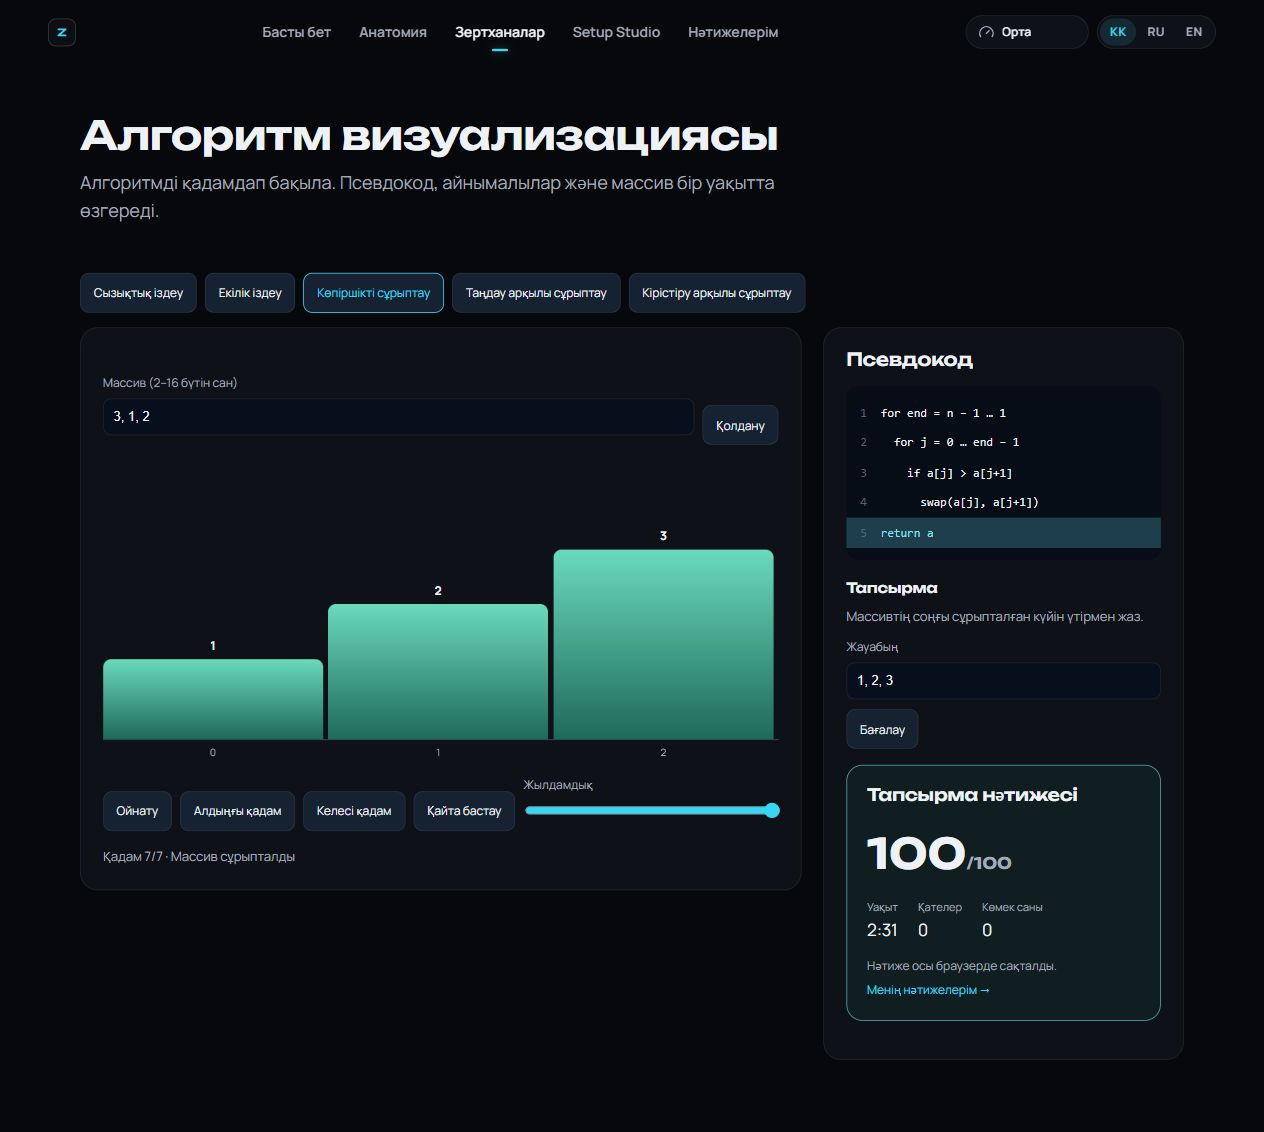
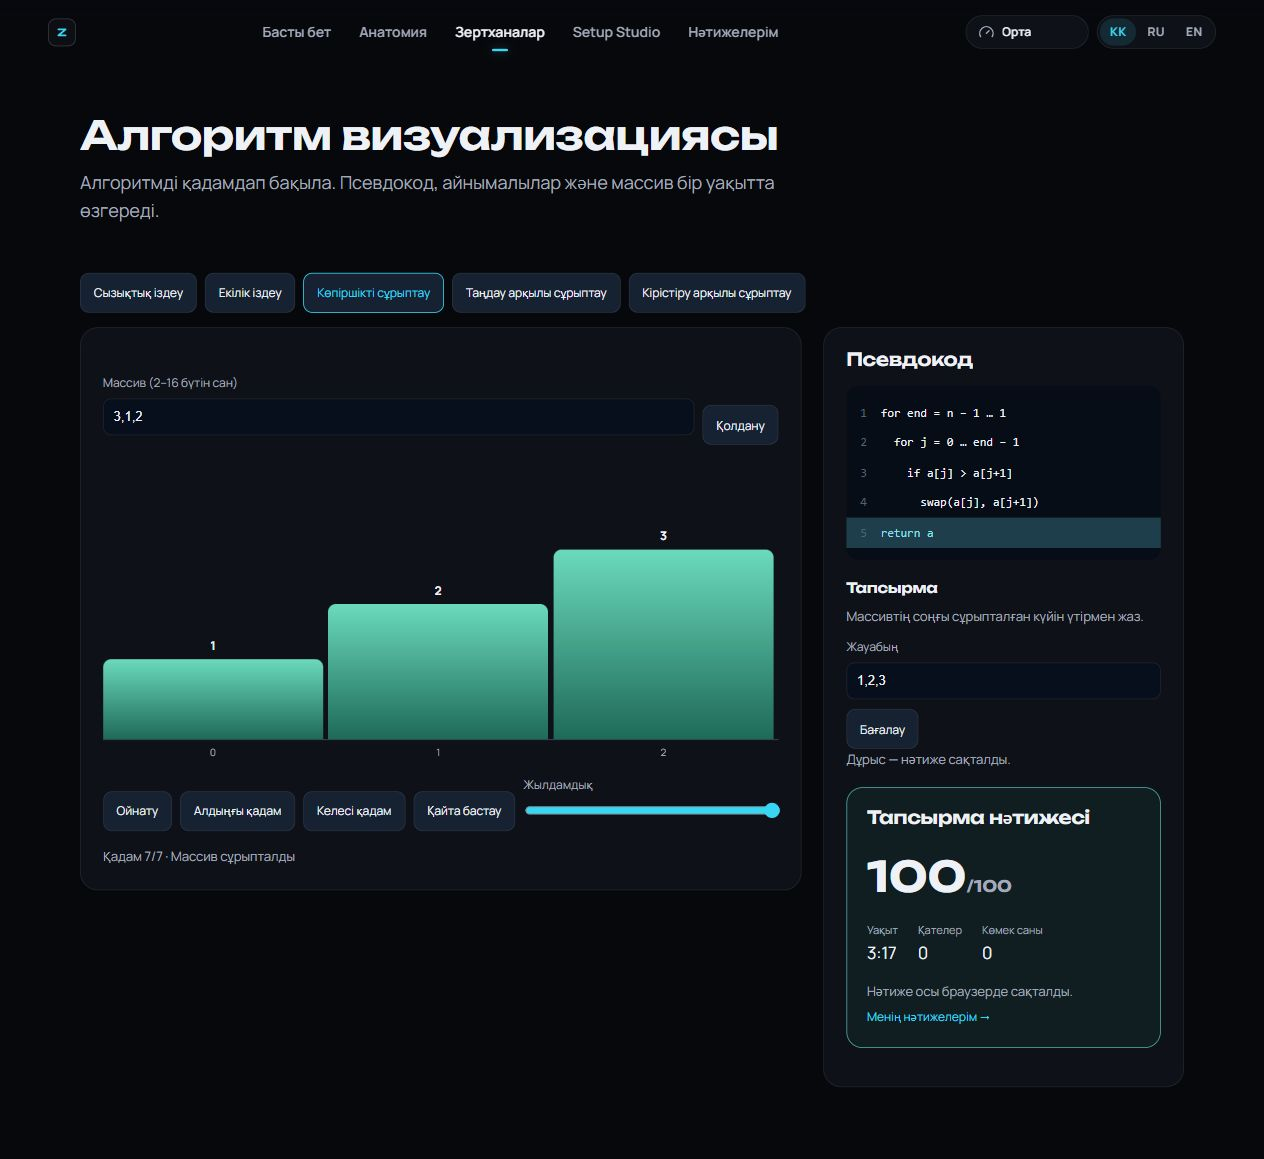
Preserve lifetime best scores and migrate progress to v2

diff --git a/src/store/progressStore.ts b/src/store/progressStore.ts
@@ -1,6 +1,6 @@
 import { create } from 'zustand';
 import { createJSONStorage, persist } from 'zustand/middleware';
-import { safeStorage } from '@/lib/storage';
+import { safeStorage, STORAGE_KEYS, STORAGE_VERSIONS } from '@/lib/storage';
 import { isAssessment, type Assessment } from '@/lib/labs/assessment';
 
 interface ProgressState {
@@ -10,20 +10,23 @@ interface ProgressState {
   record: (assessment: Assessment) => void;
 }
 const memory = new Map<string,string>();
+function restoreResults(raw: unknown) {
+  const saved = raw as { attempts?: unknown; best?: unknown } | null;
+  const attempts = Array.isArray(saved?.attempts) ? saved.attempts.filter(isAssessment) : [];
+  const best = Array.isArray(saved?.best) ? saved.best.filter(isAssessment) : [];
+  return { attempts: attempts.slice(-200), best: bestResults([...best,...attempts]) };
+}
 export const useProgressStore = create<ProgressState>()(persist((set) => ({
   attempts: [],
   best: [],
   record: (a) => { if (isAssessment(a)) set(s => ({ attempts: [...s.attempts,a].slice(-200), best: bestResults([...s.best,a]) })); },
-}), { name: 'vil3d:progress', version: 1, storage: createJSONStorage(() => safeStorage() ?? {
+}), { name: STORAGE_KEYS.progress, version: STORAGE_VERSIONS.progress, storage: createJSONStorage(() => safeStorage() ?? {
   getItem: k => memory.get(k) ?? null, setItem: (k,v) => void memory.set(k,v), removeItem: k => void memory.delete(k),
 }),
   partialize: s => ({ attempts: s.attempts, best: s.best }),
+  migrate: restoreResults,
   merge: (raw,current) => {
-    const saved = raw as { attempts?: unknown; best?: unknown } | null;
-    const attempts = Array.isArray(saved?.attempts) ? saved.attempts.filter(isAssessment) : [];
-    const best = Array.isArray(saved?.best) ? saved.best.filter(isAssessment) : [];
-    // Additive v1 schema: old saves rebuild their best scores from history.
-    return { ...current, attempts: attempts.slice(-200), best: bestResults([...best,...attempts]) };
+    return { ...current, ...restoreResults(raw) };
   },
 }));
 

diff --git a/src/pages/Labs/AssignmentsPage.tsx b/src/pages/Labs/AssignmentsPage.tsx
@@ -4,7 +4,7 @@ import { useT } from '@/hooks/useT';
 import { useEducationText,type EducationKey } from '@/hooks/useEducationText';
 import { useLabText } from '@/hooks/useLabText';
 import { EXERCISES } from '@/data/labs/exercises';
-import { useProgressStore,bestResults } from '@/store/progressStore';
+import { useProgressStore } from '@/store/progressStore';
 import type { TranslationKey } from '@/lib/i18n';
 import styles from './Learning.module.css';
-export default function AssignmentsPage(){const t=useT(),l=useEducationText(),lt=useLabText(),attempts=useProgressStore(s=>s.attempts);const best=bestResults(attempts);return <PageLayout title={t('labs.modules.assignments.title')} subtitle={l('assignmentsIntro')}><div className={styles.list}>{EXERCISES.map(e=>{const score=best.find(a=>a.exercise===e.id)?.score;const name=e.module==='assembly'?lt('assemblyTitle'):e.module==='hardware'?t(`anatomy.items.${e.task}.name` as TranslationKey):l(e.task==='router'?'routerTask':e.task as EducationKey);return <Link key={e.id} to={e.path}><span>{t(`labs.modules.${e.module}.title` as TranslationKey)} · {name}</span><strong>{score===undefined?'→':`${score}/100`}</strong></Link>;})}</div></PageLayout>;}
+export default function AssignmentsPage(){const t=useT(),l=useEducationText(),lt=useLabText(),best=useProgressStore(s=>s.best);return <PageLayout title={t('labs.modules.assignments.title')} subtitle={l('assignmentsIntro')}><div className={styles.list}>{EXERCISES.map(e=>{const score=best.find(a=>a.exercise===e.id)?.score;const name=e.module==='assembly'?lt('assemblyTitle'):e.module==='hardware'?t(`anatomy.items.${e.task}.name` as TranslationKey):l(e.task==='router'?'routerTask':e.task as EducationKey);return <Link key={e.id} to={e.path}><span>{t(`labs.modules.${e.module}.title` as TranslationKey)} · {name}</span><strong>{score===undefined?'→':`${score}/100`}</strong></Link>;})}</div></PageLayout>;}

diff --git a/src/lib/storage.ts b/src/lib/storage.ts
@@ -20,7 +20,7 @@ export const STORAGE_KEYS = {
 export const STORAGE_VERSIONS = {
   settings: 1,
   setup: 1,
-  progress: 1,
+  progress: 2,
 } as const;
 
 /** localStorage can throw (private mode, blocked storage, quota). */

diff --git a/docs/SESSION_2026-10-04_LEARNING.md b/docs/SESSION_2026-10-04_LEARNING.md
@@ -8,17 +8,17 @@
 - Logic: 6 gate, максимум 10 gate, жылжыту/порт/сым, A/B switch, сигнал түсі/LED, 4 truth-table жолы. Бағалау графтың мінез-құлқын тексереді; балама NAND+NOT схемасы да өтеді. Цикл/қосылмаған кіріс белгісіз `?` береді.
 - Experiments: CPU температурасы, RAM, сақтау жылдамдығы, latency, binary bits, RGB, resolution және refresh rate. Параметр/формула/визуал, decimal comma, дискретті мәндердің дәл бағалауы.
 
-`EXERCISES`: 1 PC assembly + 5 algorithm + 4 network + 4 logic + 8 experiment + 18 anatomy = **40**. Assignment сілтемелері нақты тапсырмаға/құрылғыға апарады. Ең жақсы ұпай, соңғы әрекеттер, 3 achievement және орындалу пайызы `vil3d:progress` v1 арқылы сақталады.
+`EXERCISES`: 1 PC assembly + 5 algorithm + 4 network + 4 logic + 8 experiment + 18 anatomy = **40**. Assignment сілтемелері нақты тапсырмаға/құрылғыға апарады. Ең жақсы ұпай, соңғы әрекеттер, 3 achievement және орындалу пайызы `vil3d:progress` v2 арқылы сақталады. Lifetime best соңғы 200 әрекеттен бөлек; v1 деректері өшірілмей көшіріледі.
 
 ## Архитектура/оптимизация
 Таза логика `src/lib/labs/`, реестр `src/data/labs/exercises.ts`, kk/ru/en мәтіндер `useEducationText.ts`, UI `pages/Labs/`. Global LoaderOverlay lazy. Rolldown `codeSplitting.includeDependenciesRecursively=false`: React/Zustand WebGL тобына кірмейді; production entry HTML Three/r3f preload жасамайды. 3D беттері өз модульдерін сұрағанда жүктейді.
 
 ## Тексерулер
-- `npm test`: 22/22 (AI 9, assistant 4, assembly 3, PC Lab 2, education engines 4). Соңғы сандық бағалау түзетуінен кейін `test:learning` 4/4 қайта өтті.
+- `npm test`: 23/23 (AI 9, assistant 4, assembly 3, PC Lab 2, education engines 4, progress 1). Progress тесті: 205 қайталаудан кейін де алдыңғы 100 ұпай сақталады, rehydrate/v1 migration/жарамсыз жазба тексерілді.
 - Production build (TypeScript + Vite) және lint өтті. Chunk config-тің соңғы нұсқасы deprecation warning бермейді.
 - Chromium desktop: LAN-ның 3 кабелі/PING/100, екі портты басу; duplicate IP қатесі; AND truth table/100; bubble forward/back/autoplay/100; refresh 60→300 Гц, 3.33 ms/100; assignment 40 жолы және monitor deep link/quiz/100.
 - Progress: 6/40 = 15%, 600 best points; нашар қайталанған әрекет best score-ды түсірмейді; reload кейін сақталады.
-- Mobile 375×812: тәжірибе және PC assembly UI-ында horizontal page overflow жоқ; оқу графтарының ішкі панелі көлденең жылжиды. Нақты touch құрылғы тексерілмеген.
+- Mobile 375×812: тәжірибе, логика және PC assembly UI-ында horizontal page overflow жоқ; оқу графтарының ішкі панелі көлденең жылжиды. Нақты touch құрылғы тексерілмеген.
 - Жаңа build-тегі `/studio/summary`: кино табиғи аяқталады; AI-мен жақсарту диалогы каталог ұсынысын/айырмасын көрсетеді. Ұсынысты қолданбай, бастапқы ASUS 300 Гц + Logitech жинағы сақталды.
 
 Скриншоттар `docs/screenshots/{network-lab,logic-lab,algorithm-lab,experiment-lab,progress,assembly-final,assistant-improve}.jpg`.

diff --git a/README.md b/README.md
@@ -29,7 +29,8 @@ Windows: `start.bat` (қажет болса `npm install` жасайды да, d
 | `npm run ai:server` | LLM backend (кілт `.env`-те, міндетті емес) |
 | `npm run test:pc-lab` | Орнату реттілігі, қайталанған бөлшектер, ұпай және сақтау валидациясы |
 | `npm run test:learning` | Алгоритмдер, схема графы, LAN/IP және тәжірибелердің бағалауы |
-| `npm test` | Барлық 22 автоматты тест |
+| `npm run test:progress` | Ұпайды history limit-тен қорғау, persist және v1→v2 migration |
+| `npm test` | Барлық 23 автоматты тест |
 | `npm run assets:optimize` | Шикі лицензияланған GLB → Meshopt + WebP 1K |
 | `npm run assets:validate` | 16 модельдің геометриясы, декодталуы, текстуралары |
 
@@ -73,6 +74,7 @@ Windows: `start.bat` (қажет болса `npm install` жасайды да, d
 Таза есептеу/тексеру логикасын `src/lib/labs/` ішінде қосып, тиісті модуль UI-ына жалғаңыз. Тапсырманы `src/data/labs/exercises.ts` тізіміне тұрақты ID және route арқылы тіркеңіз. `assessment.ts` бағалауы мен `progressStore.record` арқылы нәтиже сақталсын; тізім мен прогресс осы реестрді қолданады. Негізгі оқу логикасын `scripts/learning.test.mjs` арқылы тексеріңіз.
 
 Желі — LAN оқу моделі; нақты ICMP/DNS/Интернет маршрутизациясын орындамайды. Тәжірибе мәндері — түсіндірілген оқу формулалары, нақты компьютер өлшемдері емес. Legacy прогресс импорты, әр SKU-ға бөлек GLB, KTX2/LOD және Firefox/Safari/нақты touch QA әлі ашық.
+Прогресс v2: соңғы 200 әрекет пен өмірлік ең жақсы ұпайлар бөлек сақталады; v1 нәтижелері дерек өшірілмей автоматты көшіріледі.
 
 ## Графика сапасы
 Low / Medium / High / Ultra + Авто (`src/lib/quality`). Авто режим GPU мен құрылғыны анықтап, FPS төмендесе сапаны өзі түсіреді.

diff --git a/PROJECT_STATE.md b/PROJECT_STATE.md
@@ -21,7 +21,7 @@
 - `/assignments`: 40 оқу тапсырмасы; `/progress`: best scores, әрекеттер, 3 жетістік, реестр бойынша орындалу пайызы. Explorer `?device=...` арқылы нақты құрылғыны ашады.
 - Логика: `lib/labs/{algorithms,network,logic,experiments}.ts`; реестр `data/labs/exercises.ts`; kk/ru/en мәтін `hooks/useEducationText.ts`; UI `pages/Labs/*Page.tsx`, `Learning.module.css`.
 - LoaderOverlay lazy; `vite.config.ts` codeSplitting ортақ React/Zustand-ты WebGL chunk-ына жұтып қоймайды. Production index.html three/r3f preload жасамайды; 3D routes өздері жүктейді.
-- Тексерулер: 22 автоматты тест, production build, lint. Chromium: LAN 100/PING, duplicate IP, AND 100/ақиқат кестесі, bubble autoplay/step 100, 300 Гц тәжірибесі 100, 40 сілтеме/монитор quiz, progress 6/40=15% және reload persist. Скриншоттар мен шектеулер: `docs/SESSION_2026-10-04_LEARNING.md`.
+- Тексерулер: 23 автоматты тест, production build, lint. Chromium: LAN 100/PING, duplicate IP, AND 100/ақиқат кестесі, bubble autoplay/step 100, 300 Гц тәжірибесі 100, 40 сілтеме/монитор quiz, progress 6/40=15% және reload persist. Progress v2: lifetime best бөлек, 200 әрекет лимиті ұпайды өшірмейді; v1→v2 migration деректі сақтайды. Скриншоттар мен шектеулер: `docs/SESSION_2026-10-04_LEARNING.md`.
 
 ## Жаңа дайын модуль
 `/labs/assembly` — нақты 3D drag/snap, таңдау/жарықталған ұяшық/пернетақта баламасы, реттілік пен каталог үйлесімділігі, қуат қосу, автоматты ұпай. `/progress` — сақталатын әрекеттер, ең жақсы ұпайлар, жетістіктер; анатомия quiz-і де сақталады. Файлдар: `store/pcLabStore.ts`, `store/progressStore.ts`, `lib/labs/{assessment,pcAssembly}.ts`, `hooks/useLabText.ts`, `pages/Labs/{PcAssemblyPage,ExerciseResult,Exercise.module.css}`, `scenes/PcAssemblyLab/PcLabScene.tsx`, `pages/Progress/`, router және AnatomyQuiz. Есеп: `docs/SESSION_2026-10-03_PC_LAB.md`.

diff --git a/ARCHITECTURE.md b/ARCHITECTURE.md
@@ -170,6 +170,6 @@ legacy/                     ескі ES-module прототип (python http.ser
 
 23. **Оқу зертханалары.** `lib/labs/{pcAssembly,algorithms,network,logic,experiments,assessment}.ts` — UI-дан тәуелсіз есептеу/тексеру. Algorithm trace immutable, logic графы truth table арқылы, network BFS/IPv4 арқылы тексеріледі. `pages/Labs/` параметрлік UI және SVG/CSS визуалдары; PC assembly лицензияланған 3D кэшін пайдаланады. `useEducationText`/`useLabText` үш тілдегі оқу мәтіндерімен тек модульде жүктеледі.
 
-24. **Тапсырма/прогресс.** `data/labs/exercises.ts` — 40 тұрақты ID және deep link. `progressStore` versioned local persistence, валидация, соңғы 200 әрекет, әр ID-ның ең жақсы ұпайы. `AssignmentsPage` пен `ProgressPage` бір реестрді қолданады; anatomy quiz және барлық lab нәтижесі ортақ Assessment. Орындалу = реестрдегі passed best scores / 40; legacy import бөлек болашақ қадам.
+24. **Тапсырма/прогресс.** `data/labs/exercises.ts` — 40 тұрақты ID және deep link. `progressStore` v2 local persistence, валидация, соңғы 200 әрекет пен lifetime best массиві бөлек; v1 миграциясы ұпайларды тарихтан қалпына келтіреді. `AssignmentsPage` пен `ProgressPage` бір реестрді қолданады; anatomy quiz және барлық lab нәтижесі ортақ Assessment. Орындалу = реестрдегі passed best scores / 40; legacy import бөлек болашақ қадам.
 
 25. **2D/3D chunk шекарасы.** Router беттерді lazy жүктейді, global LoaderOverlay тек scene expected болса mount болады. Rolldown codeSplitting ортақ dependency-лерді Three/r3f тобына recursive қоспайды. Соның арқасында 2D беті 3D asset/chunk жүктемейді; 3D route SceneCanvas пен loader-ін өзі жүктейді.

diff --git a/KNOWN_ISSUES.md b/KNOWN_ISSUES.md
@@ -34,7 +34,7 @@
 - **Желі — LAN оқу моделі.** IP/маска, топология, gateway тексеріледі; нақты ICMP, DNS resolution және бірнеше subnet арасындағы маршрутизация жоқ. DNS өрісі оқу конфигурациясы ретінде сақталады.
 - **Логика — A/B комбинациялық схемалар.** Sequential/clock/register модельдері жоқ. Алгоритмдерде recursion/shortest path әзірге жоқ; негізгі 5 іздеу/сұрыптау орындалды.
 - **Тәжірибелер — оқу формулалары.** CPU температурасы сияқты мәндер нақты аппараттың telemetry өлшемі емес.
-- **Legacy прогресс импорты әлі орындалмаған.** Жаңа `vil3d:progress` тарихы мен best scores жұмыс істейді.
+- **Legacy прогресс импорты әлі орындалмаған.** Жаңа `vil3d:progress` v2 тарихы мен lifetime best scores жұмыс істейді; осы жобаның v1 нәтижелері автоматты көшіріледі.
 
 ## Жабылған
 - (PC Lab) Анатомия quiz нәтижелері енді ортақ `vil3d:progress` сақтау жүйесіне жазылады.

diff --git a/CHANGELOG.md b/CHANGELOG.md
@@ -7,7 +7,8 @@
 - 8 параметрлік тәжірибе; дұрыс/қате жауаптың түсіндірмесі, ұпай, уақыт, қате, persist.
 - 40 тапсырма тізімі, нақты құрылғы/тапсырмаға deep link, прогресс пайызы және kk/ru/en атаулар.
 - LoaderOverlay lazy; codeSplitting ортақ тәуелділіктерді WebGL-ден бөледі: 2D route-та Three/r3f eager preload жоқ.
-- 22 автоматты тест; build/lint; Chromium desktop/mobile тексерулері және скриншоттар. Legacy импорт, дәл SKU модельдері және соңғы browser/device QA ашық.
+- Progress v2: lifetime best ұпайлар 200 history лимитінен бөлек, v1 migration деректі сақтайды.
+- 23 автоматты тест; build/lint; Chromium desktop/mobile тексерулері және скриншоттар. Legacy импорт, дәл SKU модельдері және соңғы browser/device QA ашық.
 
 ## 0.8.0 — 2026-10-04 — Фаза 6: AI Көмекші
 
